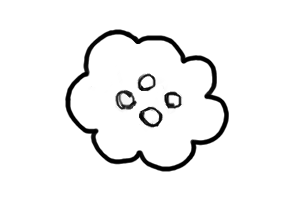
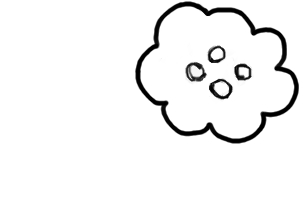
fixed death bubble to time in and shifted it up and to the right

Changed region(s): [[0.21, 0.0, 1.0, 0.87]]

diff --git a/werescrewed/src/com/blindtigergames/werescrewed/player/Player.java b/werescrewed/src/com/blindtigergames/werescrewed/player/Player.java
@@ -1,5 +1,6 @@
 package com.blindtigergames.werescrewed.player;
 
+import com.badlogic.gdx.Gdx;
 import com.badlogic.gdx.controllers.Controller;
 import com.badlogic.gdx.controllers.Controllers;
 import com.badlogic.gdx.controllers.PovDirection;
@@ -161,6 +162,7 @@ public class Player extends Entity {
 	
 	private float controlValue = 0f;
 
+	private float deathTime = 0f;
 
 	//private IMover mover;
 
@@ -284,7 +286,7 @@ public class Player extends Entity {
 	 */
 	public void update( float deltaTime ) {
 		super.update( deltaTime );
-
+		
 		updateMover( deltaTime );
 
 		if ( switchTimer > 0 )
@@ -298,12 +300,14 @@ public class Player extends Entity {
 		
 		if ( drawTutorial ) {
 			tutorialTimer++;
-			if ( tutorialTimer > 90 ) { // controls frame time on tutorials
-				tutorialFrame++;
-				if ( tutorialFrame > tutorialEnd )
-					tutorialFrame = tutorialBegin;
-				tutorial.setTexture( tutorials[ tutorialFrame ] );
-				tutorialTimer = 0;
+			if(deathTime == 0f || deathTime > 5f ){
+				if ( tutorialTimer > 45 ) { // controls frame time on tutorials
+					tutorialFrame++;
+					if ( tutorialFrame > tutorialEnd )
+						tutorialFrame = tutorialBegin;
+					tutorial.setTexture( tutorials[ tutorialFrame ] );
+					tutorialTimer = 0;
+				}
 			}
 		}
 //		if ( Gdx.input.isKeyPressed( Keys.NUM_7 ) )
@@ -334,6 +338,7 @@ public class Player extends Entity {
 					&& playerState != PlayerState.RespawnMode ) {
 				killPlayer( );
 			}
+			deathTime += deltaTime;
 			// check input only for grab mode
 			// to allow player to re-spawn
 			if ( controller != null ) {
@@ -388,6 +393,7 @@ public class Player extends Entity {
 				}
 			}
 		}
+		
 		updateFootFrictionNew( );
 		// switch between states
 		switch ( playerState ) {
@@ -564,6 +570,7 @@ public class Player extends Entity {
 				setTutorial( 10, 11 );
 				setDrawTutorial( true );
 				deathBubble = true;
+				deathTime = 0.01f;
 				if ( otherPlayer != null
 						&& otherPlayer.getState( ) == PlayerState.HeadStand ) {
 					otherPlayer.checkHeadStandState( );
@@ -627,6 +634,7 @@ public class Player extends Entity {
 	public void respawnPlayer( ) {
 		setDrawTutorial( false );
 		deathBubble = false;
+		deathTime = 0f;
 		topCrush = false;
 		botCrush = false;
 		leftCrush = false;
@@ -723,10 +731,10 @@ public class Player extends Entity {
 	/**
 	 * draws tutorials when appropriate
 	 */
-	public void draw( SpriteBatch batch, float deltaTime, Camera camera ) {
-		drawBubble( batch );
+	/*public void draw( SpriteBatch batch, float deltaTime, Camera camera ) {
+		if(deathTime == 0f || deathTime > 10f ) drawBubble( batch );
 		super.draw( batch, deltaTime, camera );
-	}
+	}*/
 
 	/**
 	 * draws tutorials when appropriate
@@ -735,32 +743,36 @@ public class Player extends Entity {
 	 *            SpriteBatch
 	 */
 	public void drawBubble( SpriteBatch batch ) {
-		if ( drawTutorial ) {
-			float xpos = body.getPosition( ).x;
-			float ypos = body.getPosition( ).y;
-			bubble.getScaleX( );
-			if ( tutorial != null ) {
-				if( !deathBubble ){
-					bubble.setPosition(
-						xpos * Util.BOX_TO_PIXEL - bubble.getWidth( ) / 2.0f
-								+ 350f, ypos * Util.BOX_TO_PIXEL + 100f );
-					bubble.setRotation( MathUtils.radiansToDegrees
-						* body.getAngle( ) );
-					tutorial.setPosition(
-							xpos * Util.BOX_TO_PIXEL - tutorial.getWidth( ) / 2.0f
-									+ 350f, ypos * Util.BOX_TO_PIXEL + 230 );
-					tutorial.setRotation( MathUtils.radiansToDegrees
-							* body.getAngle( ) );
-					bubble.draw( batch );
+		if ( deathTime == 0f || deathTime > 5f ) {
+			if ( drawTutorial ) {
+				float xpos = body.getPosition( ).x;
+				float ypos = body.getPosition( ).y;
+				bubble.getScaleX( );
+				if ( tutorial != null ) {
+					if ( !deathBubble ) {
+						bubble.setPosition(
+								xpos * Util.BOX_TO_PIXEL - bubble.getWidth( )
+										/ 2.0f + 350f, ypos * Util.BOX_TO_PIXEL
+										+ 100f );
+						bubble.setRotation( MathUtils.radiansToDegrees
+								* body.getAngle( ) );
+						tutorial.setPosition( xpos * Util.BOX_TO_PIXEL
+								- tutorial.getWidth( ) / 2.0f + 350f, ypos
+								* Util.BOX_TO_PIXEL + 230 );
+						tutorial.setRotation( MathUtils.radiansToDegrees
+								* body.getAngle( ) );
+						bubble.draw( batch );
+					} else {
+						tutorial.setPosition( xpos * Util.BOX_TO_PIXEL
+								- tutorial.getWidth( ) / 2.0f + 64, ypos
+								* Util.BOX_TO_PIXEL + 50 );
+						tutorial.setRotation( MathUtils.radiansToDegrees
+								* body.getAngle( ) );
+					}
 				}
-				else{
-					tutorial.setPosition(
-						xpos * Util.BOX_TO_PIXEL - tutorial.getWidth( ) / 2.0f + 64, ypos * Util.BOX_TO_PIXEL + 50 );
-					tutorial.setRotation( MathUtils.radiansToDegrees
-						* body.getAngle( ) );
-				}
+				Gdx.app.log( name, " hi" );
+				tutorial.draw( batch );
 			}
-			tutorial.draw( batch );
 		}
 	}
 
